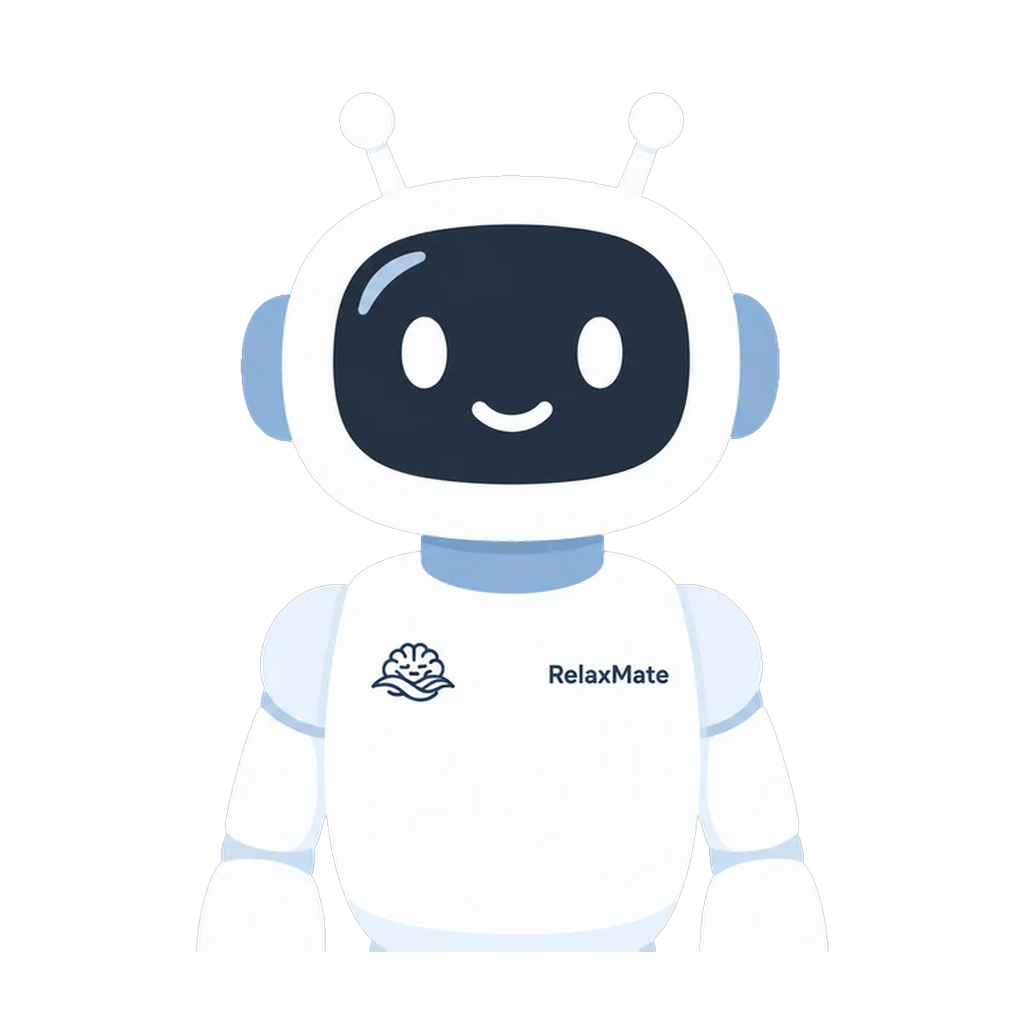
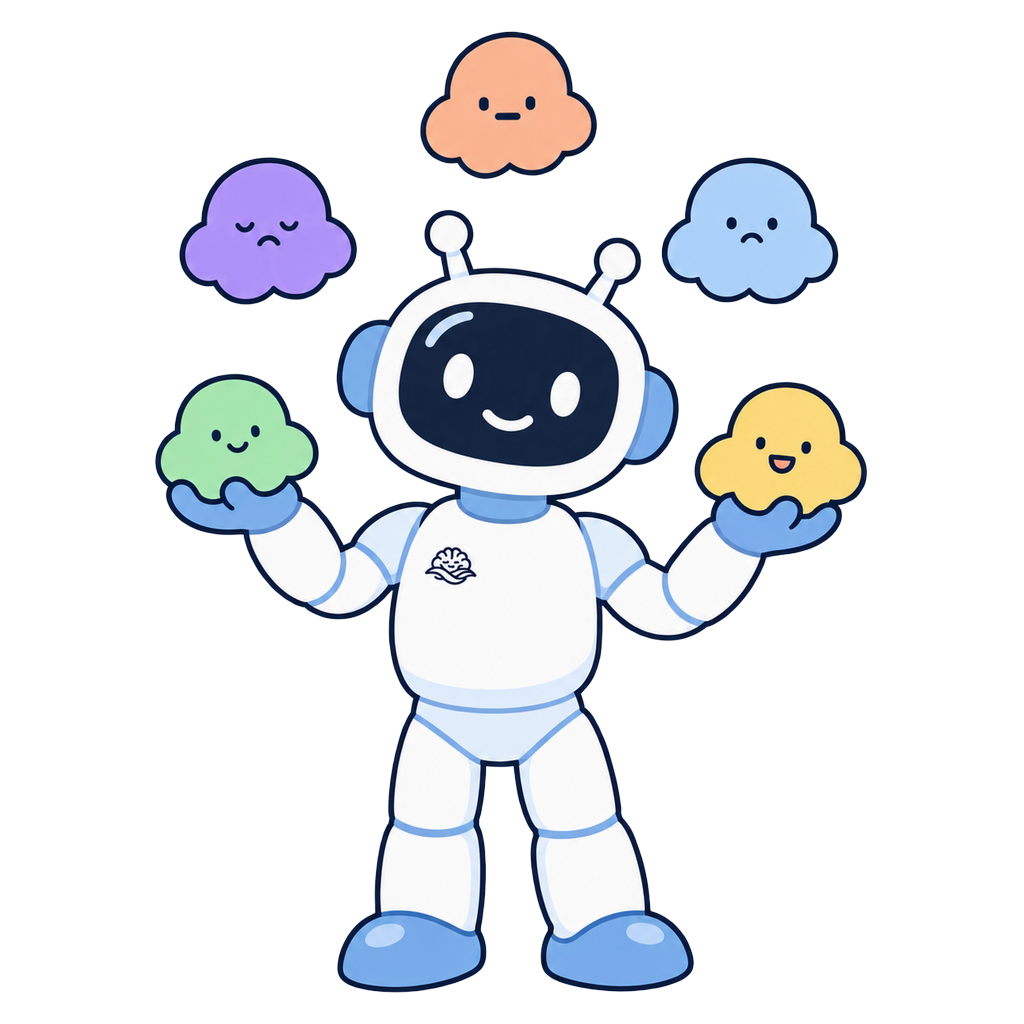
feat(mobile): add custom welcome hero illustration

diff --git a/docs/progress.md b/docs/progress.md
@@ -1,5 +1,5 @@
 # RelaxMate Mobile - Progress
-Version: 0.45 | Status: Living document | Last updated: 2026-11-15
+Version: 0.46 | Status: Living document | Last updated: 2026-11-15
 Owner: Founder (solo developer)
 
 Dokumen ini dibaca pertama setiap mulai bekerja di proyek mobile. Perbarui di akhir setiap task atau sesi. Dokumen proyek disimpan **di luar repo kode** (RULE-M014). Task di sisi backend (repo web RelaxBoss) mengikuti `Rules.md` web dan juga dicatat di sini, dengan awalan `TASK-M`, agar satu sumber kebenaran untuk fitur mobile. Perubahan di repo web tetap mengikuti Doc Sync web (`progress.md` web diperbarui bila menyentuh perilaku web).
@@ -10,7 +10,7 @@ Dokumen ini dibaca pertama setiap mulai bekerja di proyek mobile. Perbarui di ak
 
 | Hal | Status terbaru |
 |---|---|
-| Tahap | Implementasi berjalan. Selesai (uji manual lolos): **TASK-M010 sampai M017** (seluruh backend MM1, repo web), **M020 sampai M034** (Flutter; M024 sampai M028 lolos 2026-11-07, M029 lolos 2026-11-09, M030, M031, M032, M033 lolos 2026-11-10, M034 lolos 2026-11-11, termasuk `flutter analyze` bersih untuk M027 dan M028; M028 juga mencakup API-M018 di repo web). **MM1 (Backend API) selesai** kecuali prasyarat rilis web. **MM3 (chat inti, krisis, saran, riwayat) selesai.** OQ-M3 diputuskan 2026-11-07 (Cek Rasa juga menulis Mood Entry). **TASK-M029** (latihan napas dan grounding 5-4-3-2-1 lokal) `Done` (uji manual lolos 2026-11-09, dipush `e658a31`). **TASK-M030** (maskot beranimasi dan Temani saja) `Done` (uji manual dan `flutter analyze` lolos 2026-11-10, dipush). **TASK-M031** (Pengaturan, Hapus akun, lapisan privasi) `Done` (uji manual dan `flutter analyze` lolos 2026-11-10, dipush). **TASK-M032** (alur izin maskot mengambang) dan **TASK-M033** (layanan dan gelembung maskot) `Done` (uji manual lolos 2026-11-10, dipush). **TASK-M034** (pengaturan overlay, sakelar jarak jauh, tawaran lanjut, perintah "Ngobrol") `Done` (`flutter analyze` dan uji manual lolos 2026-11-11, sudah di-commit founder). **MM5 (Maskot mengambang, Android) selesai** dengan satu perangkat uji: Redmi Note 10S, Android 14 (M032 sampai M034). Matriks Android 10/11, 13, 15 dan OEM lain belum diuji, dipindah ke uji pra-rilis (OQ-MA14). **MM6 dimulai:** **TASK-M040** (audit privasi perangkat) `Done` (`tool/privacy_audit.mjs` 23 dari 23 lolos, uji perangkat dan `flutter analyze` lolos 2026-11-11, sudah di-commit dan dipush founder). **TASK-M042** (aksesibilitas) `Done` (uji manual lolos 2026-11-11, dipush). **TASK-M035** (tampilan chat: maskot atau obrolan, FR-M027) `Done` (`flutter analyze` dan uji manual lolos 2026-11-11, dipush; perincian per langkah tidak dilaporkan). Dokumen mobile: PRD v0.11, Architecture v0.37, Schema v0.1 (**perlu pembaruan**, lihat Utang dokumen), Design v0.29, Rules v0.25, progress v0.45. **TASK-M071** (layar Tentang RelaxBoss) `Done` (uji perangkat lolos, keterangan founder 2026-11-13). **TASK-M077** (backend `GET /mood-entries`, API-M019, repo web) `Done` (uji manual lolos menurut keterangan founder 2026-11-14). **TASK-M072** (Beranda, Mood, navigasi bawah) `Doing`: kode selesai 2026-11-14, menunggu `flutter analyze` dan uji manual. **TASK-M073 bagian 1** (layar Sambutan SCR-M02, poles Masuk, Daftar, Lupa sandi) `Doing`: kode selesai 2026-11-15 atas permintaan founder, dikerjakan di atas `main` `9121890` (M072 sudah di-commit), menunggu `flutter analyze` dan uji manual. **TASK-M073 bagian 2** (ilustrasi sambutan khusus menggantikan maskot `idle`, audit bahasa Indonesia layar tamu) `Doing`: kode dan aset penampung selesai 2026-11-15, menunggu ilustrasi dari founder, `flutter analyze`, dan uji manual. Sejak 2026-11-06 **dokumen mengikuti kode**. |
+| Tahap | Implementasi berjalan. Selesai (uji manual lolos): **TASK-M010 sampai M017** (seluruh backend MM1, repo web), **M020 sampai M034** (Flutter; M024 sampai M028 lolos 2026-11-07, M029 lolos 2026-11-09, M030, M031, M032, M033 lolos 2026-11-10, M034 lolos 2026-11-11, termasuk `flutter analyze` bersih untuk M027 dan M028; M028 juga mencakup API-M018 di repo web). **MM1 (Backend API) selesai** kecuali prasyarat rilis web. **MM3 (chat inti, krisis, saran, riwayat) selesai.** OQ-M3 diputuskan 2026-11-07 (Cek Rasa juga menulis Mood Entry). **TASK-M029** (latihan napas dan grounding 5-4-3-2-1 lokal) `Done` (uji manual lolos 2026-11-09, dipush `e658a31`). **TASK-M030** (maskot beranimasi dan Temani saja) `Done` (uji manual dan `flutter analyze` lolos 2026-11-10, dipush). **TASK-M031** (Pengaturan, Hapus akun, lapisan privasi) `Done` (uji manual dan `flutter analyze` lolos 2026-11-10, dipush). **TASK-M032** (alur izin maskot mengambang) dan **TASK-M033** (layanan dan gelembung maskot) `Done` (uji manual lolos 2026-11-10, dipush). **TASK-M034** (pengaturan overlay, sakelar jarak jauh, tawaran lanjut, perintah "Ngobrol") `Done` (`flutter analyze` dan uji manual lolos 2026-11-11, sudah di-commit founder). **MM5 (Maskot mengambang, Android) selesai** dengan satu perangkat uji: Redmi Note 10S, Android 14 (M032 sampai M034). Matriks Android 10/11, 13, 15 dan OEM lain belum diuji, dipindah ke uji pra-rilis (OQ-MA14). **MM6 dimulai:** **TASK-M040** (audit privasi perangkat) `Done` (`tool/privacy_audit.mjs` 23 dari 23 lolos, uji perangkat dan `flutter analyze` lolos 2026-11-11, sudah di-commit dan dipush founder). **TASK-M042** (aksesibilitas) `Done` (uji manual lolos 2026-11-11, dipush). **TASK-M035** (tampilan chat: maskot atau obrolan, FR-M027) `Done` (`flutter analyze` dan uji manual lolos 2026-11-11, dipush; perincian per langkah tidak dilaporkan). Dokumen mobile: PRD v0.11, Architecture v0.37, Schema v0.1 (**perlu pembaruan**, lihat Utang dokumen), Design v0.29, Rules v0.25, progress v0.46. **TASK-M071** (layar Tentang RelaxBoss) `Done` (uji perangkat lolos, keterangan founder 2026-11-13). **TASK-M077** (backend `GET /mood-entries`, API-M019, repo web) `Done` (uji manual lolos menurut keterangan founder 2026-11-14). **TASK-M072** (Beranda, Mood, navigasi bawah) `Doing`: kode selesai 2026-11-14, menunggu `flutter analyze` dan uji manual. **TASK-M073 bagian 1** (layar Sambutan SCR-M02, poles Masuk, Daftar, Lupa sandi) `Doing`: kode selesai 2026-11-15 atas permintaan founder, dikerjakan di atas `main` `9121890` (M072 sudah di-commit), menunggu `flutter analyze` dan uji manual. **TASK-M073 bagian 2** (ilustrasi sambutan khusus menggantikan maskot `idle`, audit bahasa Indonesia layar tamu) `Doing`: kode selesai dan ilustrasi jadi dari founder sudah dipasang 2026-11-15 (`welcome-hero.png`, 1024 x 1024, transparan, 450 KB); menunggu uji manual di layar. Sejak 2026-11-06 **dokumen mengikuti kode**. |
 | Berikutnya | Uji manual **TASK-M072** dan **TASK-M073 bagian 1** (laporkan hasilnya, termasuk `flutter analyze`), lalu sisa **M073** (poles layar lain: Beranda, Mood, Ngobrol, Latihan, Pengaturan, Cek email, consent) dan **M074** berdampingan; maskot v2 (M075, M076) paralel bila aset siap. TASK-M044 menunggu M070 sampai M074. Sebelum rilis tetap wajib: uji overlay lintas versi Android dan OEM (OQ-MA14, OQ-MA13). |
 | Pemblokir | Prasyarat web untuk rilis (TASK-031, OQ-3, OQ-5) **dinyatakan selesai dan divalidasi supervisor** (keterangan founder, 2026-11-13; bukti tertulisnya disimpan founder di luar repo). Sisa pemblokir rilis: kontak krisis terverifikasi menggantikan berkas kontak bawaan (TASK-M043), uji di >= 2 perangkat nyata, deklarasi toko (TASK-M044). |
 | Alur kerja | Kerja di `main`, commit lalu push, pesan commit bahasa Inggris. Dokumen di luar repo. Uji manual wajib; tanpa CI. |
@@ -116,7 +116,7 @@ Latar: UI/UX belum final, logo masih bawaan, dan founder ingin orang tahu RelaxM
 | TASK-M070 | Logo RelaxMate: ikon peluncur adaptif (maju dan latar), ikon monokrom (Android 13), ikon notifikasi overlay, ikon 512 untuk toko; sumber: logo robot 3200 px buatan founder di Canva (`design/branding/source/`), diolah oleh `design/branding/build_icons.py` | M | Design-M | **Done** (ikon dilihat dan dipakai di perangkat, founder 2026-11-13) |
 | TASK-M071 | Layar "Tentang RelaxBoss" (SCR-M21, FR-M028): RelaxMate bagian dari RelaxBoss; kisah, visi, arti nama, kolaborasi kampus, bukan diagnosis, tautan situs dan Instagram, versi; teks dari halaman web `/tentang` | M | FR-M028, RULE-049 | **Done** (kode selesai dan dipush 2026-11-13; uji perangkat lolos menurut keterangan founder 2026-11-13; hasil `flutter analyze` tidak dilaporkan terpisah) |
 | TASK-M072 | **Beranda dan Mood** (SCR-M22, SCR-M23, FR-M029, FR-M030): rute `/` jadi Beranda, chat pindah ke `/ngobrol` (overlay dan notifikasi membuka `/ngobrol`), navigasi bawah empat tab, kartu mood dipindah dari chat ke Beranda (FR-M013), grafik 7 dan 30 hari, keadaan kosong, `ConsentGate` hanya di Ngobrol, `mock_api` mendukung GET mood. Rujukan visual: kanvas "Konsep Dashboard RelaxMate" | M | FR-M029, FR-M030, FR-M013, API-M019 | **Doing** (kode selesai 2026-11-14; menunggu `flutter analyze` dan uji manual) |
-| TASK-M073 | Poles UI/UX semua layar: audit per layar (jarak, hierarki, status kosong dan galat, konsistensi komponen) memakai token; keluaran: Design-M diperbarui; tetap lolos M042 (kontras, teks 200%, target sentuh) | M | NFR-M03, Design-M | **Doing** (bagian 1 selesai dikodekan 2026-11-15: Sambutan SCR-M02, Masuk, Daftar, Lupa sandi, latar gradien layar tamu; sisa layar belum; **bagian 2** dikodekan 2026-11-15: ilustrasi sambutan khusus `welcome-hero.png` menggantikan maskot `idle` dan audit bahasa Indonesia layar tamu, menunggu aset dari founder) |
+| TASK-M073 | Poles UI/UX semua layar: audit per layar (jarak, hierarki, status kosong dan galat, konsistensi komponen) memakai token; keluaran: Design-M diperbarui; tetap lolos M042 (kontras, teks 200%, target sentuh) | M | NFR-M03, Design-M | **Doing** (bagian 1 selesai dikodekan 2026-11-15: Sambutan SCR-M02, Masuk, Daftar, Lupa sandi, latar gradien layar tamu; sisa layar belum; **bagian 2** dikodekan 2026-11-15: ilustrasi sambutan khusus `welcome-hero.png` menggantikan maskot `idle` dan audit bahasa Indonesia layar tamu, ilustrasi jadi dipasang 2026-11-15; menunggu uji manual) |
 | TASK-M074 | Splash screen (splash native Android 12+ dengan logo, lalu layar splash Flutter bila perlu) dan animasi komponen (transisi layar, tombol, gelembung chat, kartu); hormati reduce motion; token gerak di `RbMotion` | M | Design-M, NFR-M03 | Todo |
 | TASK-M075 | Maskot v2: pemutar animasi (sprite sheet atau format lain, lihat OQ-MP3), keadaan lebih banyak (menjawab, menemani, mengambang) dan gerakan, badan penuh; **aset dihasilkan di luar repo** (seniman atau alat gambar) lalu dipasang; aplikasi memakai aset yang ada bila belum siap | M/D | FR-M027, Design-M | Todo (menunggu keputusan gaya dan aset) |
 | TASK-M076 | Pasang maskot v2 di overlay (Kotlin) dan periksa ukuran, memori, dan baterai | M | FR-M022, Architecture-M 6.4 | Todo (bergantung M075) |
@@ -352,7 +352,7 @@ Latar: UI/UX belum final, logo masih bawaan, dan founder ingin orang tahu RelaxM
 | Utang mobile | Mood dari mobile belum menyertakan tenaga dan catatan; bila aplikasi ditutup atau jaringan putus saat mengetuk blob, mood tidak tercatat dan pengguna mengetuk lagi (tanpa antrean) | Pertimbangkan bila uji manual menunjukkan mengganggu |
 | Utang mobile | M072: grafik, navigasi bawah, dan layar Beranda/Mood belum diperiksa dengan TalkBack dan teks 200% di perangkat; badan notifikasi overlay membuka Beranda, bukan chat | M073 (audit UI) |
 | Utang mobile | M073 bagian 1: sambutan dan layar tamu belum diperiksa dengan TalkBack, teks 200%, dan layar 360dp di perangkat; ikon sandi di `PasswordField` masih `Icons` bawaan (RULE-M051); animasi masuk menunggu M074 | M073 (sisa), M074, M042 |
-| Utang mobile | M073 bagian 2: `welcome-hero.png` masih penampung (maskot lama) sampai founder memasang ilustrasi jadi; ilustrasi belum dilihat di layar dan belum diperiksa dengan TalkBack | Founder (aset), uji manual M073 |
+| Utang mobile | M073 bagian 2: ilustrasi sambutan jadi sudah dipasang tetapi belum dilihat di layar perangkat dan belum diperiksa dengan TalkBack | Uji manual M073 |
 | Utang web | `EnsureUserIsActive` memakai "Anda" (tidak sama dengan nada "kamu"); `APP_LOCALE` web bawaan `en` | Seragamkan bila web disentuh lagi (bukan Inggris di layar mobile) |
 | Utang mobile | `ErrorAlert`, layar auth, dan consent masih memakai `Icons` bawaan (RULE-M051 sekarang Lucide) | Pindahkan saat UI disentuh lagi atau saat desain final |
 | Utang mobile | Panjang minimum sandi baru diketahui pengguna setelah kirim (tidak digandakan di klien) | Pertimbangkan `password_min_length` di `GET /config` (backend) sebagai petunjuk di layar Daftar |
@@ -426,6 +426,7 @@ Latar: UI/UX belum final, logo masih bawaan, dan founder ingin orang tahu RelaxM
 
 | Versi | Tanggal | Perubahan |
 |---|---|---|
+| 0.46 | 2026-11-15 | M073 bagian 2: ilustrasi sambutan jadi dari founder dipasang (dipotong ke kotak 1024, margin 3%, transparan); utang aset ditutup. |
 | 0.45 | 2026-11-15 | TASK-M073 bagian 2 (kode selesai): ilustrasi sambutan menggantikan maskot `idle`, audit bahasa layar tamu, brief ilustrasi; OQ-MP7 dijawab; utang baru; log sesi. |
 | 0.44 | 2026-11-15 | TASK-M073 `Doing` (bagian 1, kode selesai): Sambutan SCR-M02, poles Masuk, Daftar, Lupa sandi; FR-M031; ADR-M17; OQ-MP7; keputusan, utang, log sesi. |
 | 0.43 | 2026-11-14 | TASK-M077 `Done` (keterangan founder); TASK-M072 `Doing` (kode selesai): Beranda, Mood, navigasi bawah, rute `/ngobrol`; OQ-MP5 dan MP6 memakai usul bawaan; keputusan, utang, log sesi. |
